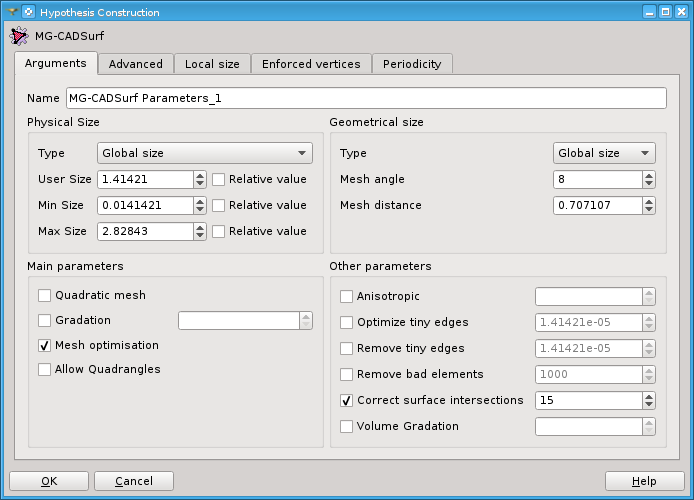
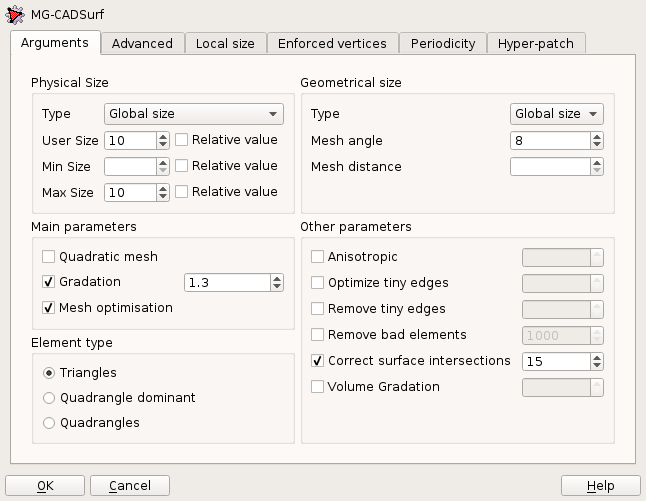
Add full-quadrangles support, available since MeshGems v2.5

diff --git a/src/GUI/BLSURFPlugin_msg_fr.ts b/src/GUI/BLSURFPlugin_msg_fr.ts
@@ -104,12 +104,32 @@ La valeur par défaut est calculée par &lt;em&gt;diag&lt;/em&gt;/5.</translatio
         <translation>Ratio maximum entre les longueurs de deux segments adjacents.</translation>
     </message>
     <message>
-        <source>BLSURF_ALLOW_QUADRANGLES</source>
-        <translation>Autoriser les quadrangles</translation>
+        <source>BLSURF_ELEMENT_TYPE</source>
+        <translation>Type d'éléments</translation>
+    </message>
+    <message>
+        <source>BLSURF_TRIANGLES</source>
+        <translation>Triangles</translation>
+    </message>
+    <message>
+        <source>BLSURF_QUADRANGLE_DOMINANT</source>
+        <translation>Quadrangles en majorité</translation>
+    </message>
+    <message>
+        <source>BLSURF_QUADRANGLES</source>
+        <translation>Quadrangles</translation>
     </message>
     <message>
         <source>BLSURF_ALLOW_QUADRANGLES_TOOLTIP</source>
         <translation>Générer un maillage à majorité de quadrangles</translation>
+    </message>
+    <message>
+        <source>BLSURF_TRIANGLES_TOOLTIP</source>
+        <translation>Générer un maillage en triangles uniquement</translation>
+    </message>
+    <message>
+        <source>BLSURF_QUADRANGLES_TOOLTIP</source>
+        <translation>Générer un maillage en quadrangles uniquement</translation>
     </message>
     <message>
         <source>BLSURF_GEOMETRICAL_SIZE</source>

diff --git a/src/GUI/BLSURFPlugin_msg_ja.ts b/src/GUI/BLSURFPlugin_msg_ja.ts
@@ -96,8 +96,32 @@
       <translation>四角形を許可</translation>
     </message>
     <message>
-      <source>BLSURF_ALLOW_QUADRANGLES_TOOLTIP</source>
-      <translation>ドミナント四角形要素の生成</translation>
+        <source>BLSURF_ELEMENT_TYPE</source>
+        <translation type="unfinished">Element type</translation>
+    </message>
+    <message>
+        <source>BLSURF_TRIANGLES</source>
+        <translation type="unfinished">Triangles</translation>
+    </message>
+    <message>
+        <source>BLSURF_QUADRANGLE_DOMINANT</source>
+        <translation type="unfinished">Quadrangle dominant</translation>
+    </message>
+    <message>
+        <source>BLSURF_QUADRANGLES</source>
+        <translation type="unfinished">Quadrangles</translation>
+    </message>
+    <message>
+        <source>BLSURF_ALLOW_QUADRANGLES_TOOLTIP</source>
+        <translation>ドミナント四角形要素の生成</translation>
+    </message>
+    <message>
+        <source>BLSURF_TRIANGLES_TOOLTIP</source>
+        <translation type="unfinished">To generate triangles-only mesh</translation>
+    </message>
+    <message>
+        <source>BLSURF_QUADRANGLES_TOOLTIP</source>
+        <translation type="unfinished">To generate quadrangles-only mesh</translation>
     </message>
     <message>
       <source>BLSURF_GEOMETRICAL_SIZE</source>

diff --git a/src/GUI/BLSURFPlugin_msg_en.ts b/src/GUI/BLSURFPlugin_msg_en.ts
@@ -100,12 +100,32 @@ The default computed value is &lt;em&gt;diag&lt;/em&gt;/5.</translation>
         <translation>Maximum ratio between the lengths of two adjacent edges in 3D mesh.</translation>
     </message>
     <message>
-        <source>BLSURF_ALLOW_QUADRANGLES</source>
-        <translation>Allow Quadrangles</translation>
+        <source>BLSURF_ELEMENT_TYPE</source>
+        <translation>Elements type</translation>
+    </message>
+    <message>
+        <source>BLSURF_TRIANGLES</source>
+        <translation>Triangles</translation>
+    </message>
+    <message>
+        <source>BLSURF_QUADRANGLE_DOMINANT</source>
+        <translation>Quadrangle dominant</translation>
+    </message>
+    <message>
+        <source>BLSURF_QUADRANGLES</source>
+        <translation>Quadrangles</translation>
     </message>
     <message>
         <source>BLSURF_ALLOW_QUADRANGLES_TOOLTIP</source>
         <translation>To generate quadrangle dominant mesh</translation>
+    </message>
+    <message>
+        <source>BLSURF_TRIANGLES_TOOLTIP</source>
+        <translation>To generate triangles-only mesh</translation>
+    </message>
+    <message>
+        <source>BLSURF_QUADRANGLES_TOOLTIP</source>
+        <translation>To generate quadrangles-only mesh</translation>
     </message>
     <message>
         <source>BLSURF_GEOMETRICAL_SIZE</source>

diff --git a/src/BLSURFPlugin/BLSURFPluginBuilder.py b/src/BLSURFPlugin/BLSURFPluginBuilder.py
@@ -26,6 +26,9 @@ import GEOM
 
 LIBRARY = "libBLSURFEngine.so"
 
+# ElementType enum
+Triangles, QuadrangleDominant, Quadrangles = 0, 1, 2
+
 # Topology treatment way of MG-CADSurf
 FromCAD, PreProcess, PreProcessPlus, PreCAD = 0,1,2,3
 
@@ -652,10 +655,17 @@ class BLSURF_Algorithm(Mesh_Algorithm):
     self.Parameters().ClearSizeMaps()
     pass
 
-  ## Sets QuadAllowed flag.
+  ## Sets QuadAllowed flag (DEPRECATED: use SetElementType)
   #  @param toAllow "allow quadrangles" flag value
+  # TODO: to remove in Salome 9
   def SetQuadAllowed(self, toAllow=True):
     self.Parameters().SetQuadAllowed(toAllow)
+    pass
+
+  ## Sets elements type
+  #  @param theElementType: 0 (Triangles), 1 (QuadrangleDominant), 2 (Quadrangles)
+  def SetElementType(self, theElementType=Triangles):
+    self.Parameters().SetElementType(theElementType)
     pass
 
   ## Defines hypothesis having several parameters

diff --git a/src/GUI/BLSURFPluginGUI_HypothesisCreator.h b/src/GUI/BLSURFPluginGUI_HypothesisCreator.h
@@ -169,7 +169,8 @@ typedef struct
   bool    myAnisotropic, myOptimiseTinyEdges, myRemoveTinyEdges, myForceBadElementRemoval, myCorrectSurfaceIntersection;
   double  myAnisotropicRatio, myTinyEdgeLength, myTinyEdgeOptimisLength, myBadElementAspectRatio, myCorrectSurfaceIntersectionMaxCost;
   bool    myOptimizeMesh, myQuadraticMesh;
-  bool    myAllowQuadrangles, mySmpsurface,mySmpedge,mySmppoint,myEnforcedVertex,myInternalEnforcedVerticesAllFaces;
+  bool    mySmpsurface,mySmpedge,mySmppoint,myEnforcedVertex,myInternalEnforcedVerticesAllFaces;
+  long    myElementType;
   // bool    myPreCADMergeEdges, myPreCADProcess3DTopology, myPreCADDiscardInput;
 //   bool    myGMFFileMode;
   std::string myGMFFileName, myInternalEnforcedVerticesAllFacesGroup;

diff --git a/tests/test_quadrangles_gradation.py b/tests/test_quadrangles_gradation.py
@@ -87,7 +87,7 @@ params.SetGeometricMesh( 1 )
 params.SetAngleMesh( 4 )
 params.SetPhySize( 8 )
 algo2d.SetGradation(1.05)
-params.SetQuadAllowed( True )
+params.SetElementType( True )
 
 ok = Mesh_1.Compute()
 
@@ -124,7 +124,7 @@ params.SetGeometricMesh( 1 )
 params.SetAngleMesh( 4 )
 params.SetPhySize( 8 )
 algo2d.SetGradation(1.05)
-params.SetQuadAllowed( True )
+params.SetElementType( 1 )
 params.SetAnisotropic(True)
 
 ok = Mesh_2.Compute()

diff --git a/tests/test_remove_tiny_edges.py b/tests/test_remove_tiny_edges.py
@@ -76,7 +76,6 @@ params.SetGeometricMesh( 1 )
 params.SetAngleMesh( 4 )
 params.SetPhySize( 8 )
 #algo2d.SetGradation(1.05)
-#params.SetQuadAllowed( True )
 params.SetQuadraticMesh( True )
 params.SetRemoveTinyEdges( True )
 params.SetTinyEdgeLength( tiny_edge_length )

diff --git a/src/GUI/BLSURFPluginGUI_Dlg.h b/src/GUI/BLSURFPluginGUI_Dlg.h
@@ -37,6 +37,12 @@ enum GeometricMesh
     GeometricalLocalSize
   };
 
+enum ElementType {
+  Triangles,
+  QuadrangleDominant,
+  Quadrangles
+};
+
 enum Topology {
     FromCAD = 0,
     Process,
